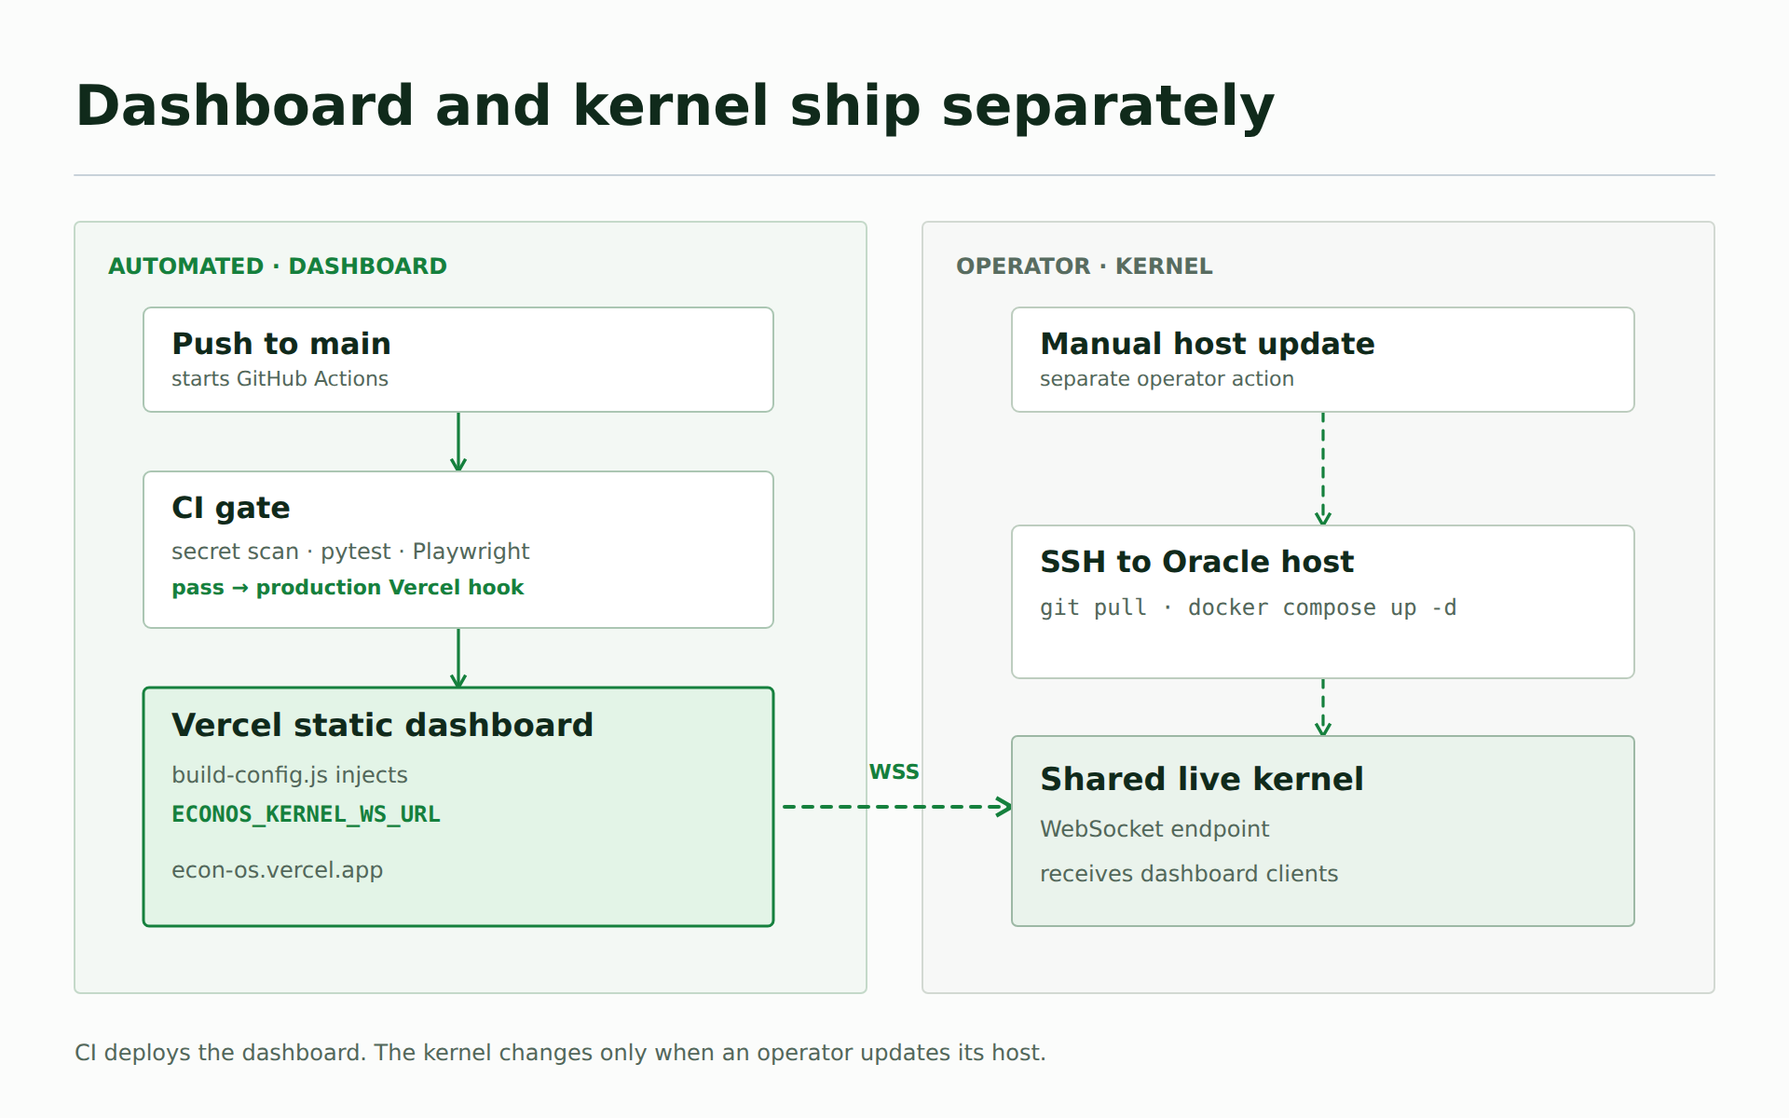
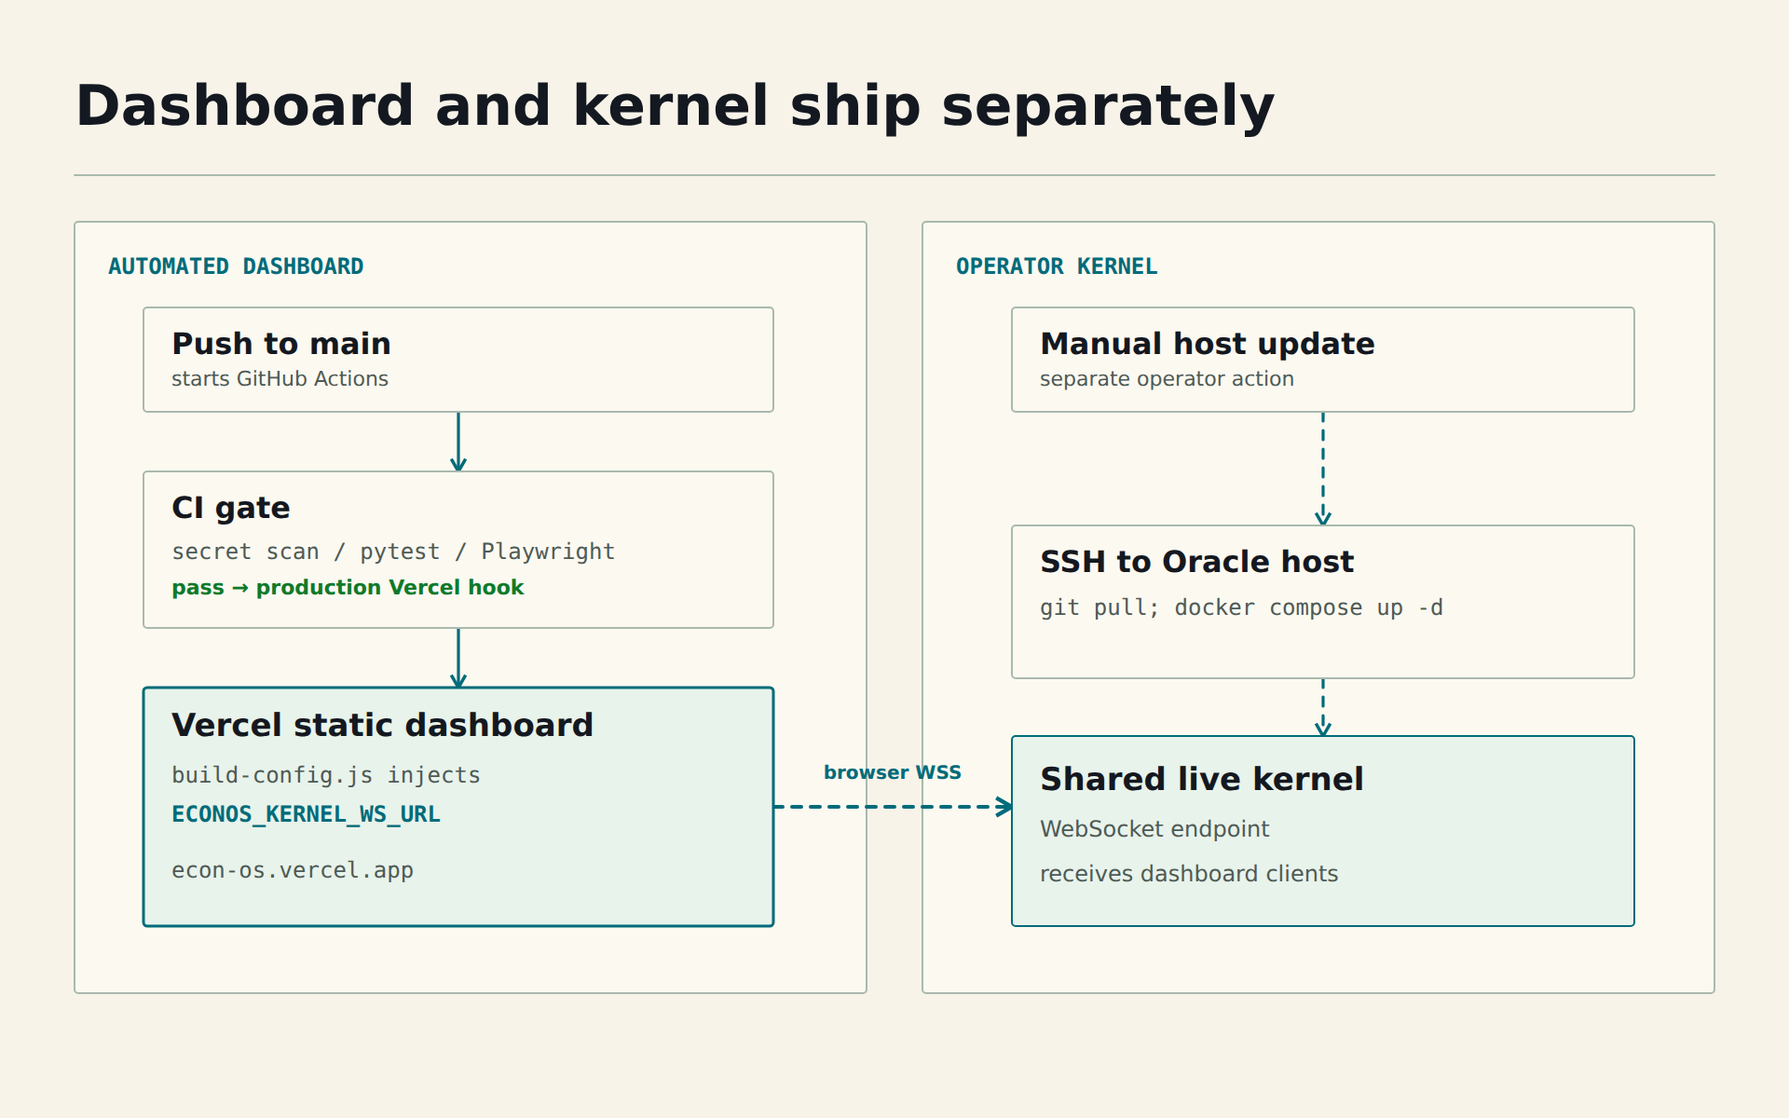
docs(diagrams): add light and dark figures

diff --git a/assets/diagrams/delivery-flow.html b/assets/diagrams/delivery-flow.html
@@ -1,9 +1,9 @@
 <!doctype html>
 <html lang="en"><head><meta charset="utf-8"><meta name="viewport" content="width=device-width, initial-scale=1"><title>Dashboard and kernel ship separately</title>
-<style>html,body{margin:0;background:#fbfcfb}body{font-family:Inter,ui-sans-serif,system-ui,-apple-system,BlinkMacSystemFont,"Segoe UI",sans-serif}.figure-scroll{max-width:960px;margin:auto;overflow-x:auto}svg{display:block;width:100%;min-width:960px}@media print{.figure-scroll{overflow-x:visible}svg{min-width:0}}</style></head>
+<style>:root{color-scheme:light;--bg:#f7f3e9;--ink:#141820;--muted:#4e5a55;--panel:#fcf9f1;--panel-alt:#e8f3eb;--line:#a9b9ad;--accent:#006b7a;--success:#0e7a2a;--warning:#b82a20;--mono:"JetBrains Mono", ui-monospace, Menlo, Consolas, monospace;--sans:Inter, system-ui, -apple-system, BlinkMacSystemFont, "Segoe UI", sans-serif}@media (prefers-color-scheme:dark){:root{color-scheme:dark;--bg:#0a0b0e;--ink:#f7faf8;--muted:#b1bdb8;--panel:#171b20;--panel-alt:#10282b;--line:#4c6162;--accent:#00f5ff;--success:#00ff41;--warning:#ff4136;}}html,body{margin:0;background:var(--bg)}body{font-family:var(--sans)}.figure-scroll{max-width:960px;margin:auto;overflow-x:auto}svg{display:block;width:100%;min-width:960px}@media print{.figure-scroll{overflow-x:visible}svg{min-width:0}}</style></head>
 <body><div class="figure-scroll"><svg xmlns="http://www.w3.org/2000/svg" viewBox="0 0 960 600" role="img" aria-labelledby="figure-title figure-desc">
 <title id="figure-title">Dashboard and kernel ship separately</title><desc id="figure-desc">GitHub Actions gates the Vercel dashboard deployment after a main push. An operator separately updates the live kernel over SSH with git pull and docker compose. The deployed dashboard connects to the kernel over WebSocket.</desc>
-<defs><marker id="arrow" viewBox="0 0 10 10" refX="8" refY="5" markerWidth="6" markerHeight="6" orient="auto"><path d="M1 1 L8 5 L1 9" fill="none" stroke="#15803d" stroke-width="1.8"/></marker></defs>
-<rect width="960" height="600" fill="#fbfcfb"/>
-<text x="40" y="67" font-size="30" fill="#102a1b" font-weight="700">Dashboard and kernel ship separately</text><path d="M40 94 H920" fill="none" stroke="#c8d2d9" stroke-width="1" stroke-linejoin="round" stroke-linecap="round"/><rect x="40" y="119" width="425" height="414" rx="3" fill="#f3f8f4" stroke="#c4d9c9" stroke-width="1"/><text x="58" y="147" font-size="12" fill="#15803d" font-weight="700">AUTOMATED · DASHBOARD</text><rect x="495" y="119" width="425" height="414" rx="3" fill="#f7f8f7" stroke="#d2d9d2" stroke-width="1"/><text x="513" y="147" font-size="12" fill="#586c60" font-weight="700">OPERATOR · KERNEL</text><path d="M246 221 V253" fill="none" stroke="#15803d" stroke-width="1.6" stroke-linejoin="round" stroke-linecap="round" marker-end="url(#arrow)"/><path d="M246 337 V369" fill="none" stroke="#15803d" stroke-width="1.6" stroke-linejoin="round" stroke-linecap="round" marker-end="url(#arrow)"/><path d="M710 221 V282" fill="none" stroke="#15803d" stroke-width="1.6" stroke-linejoin="round" stroke-linecap="round" stroke-dasharray="5 5" marker-end="url(#arrow)"/><path d="M710 364 V395" fill="none" stroke="#15803d" stroke-width="1.6" stroke-linejoin="round" stroke-linecap="round" stroke-dasharray="5 5" marker-end="url(#arrow)"/><path d="M421 433 H543" fill="none" stroke="#15803d" stroke-width="2" stroke-linejoin="round" stroke-linecap="round" stroke-dasharray="5 5" marker-end="url(#arrow)"/><text x="480" y="418" font-size="11" fill="#15803d" font-weight="700" text-anchor="middle">WSS</text><rect x="77" y="165" width="338" height="56" rx="4" fill="#fff" stroke="#abc6b3" stroke-width="1"/><text x="92" y="190" font-size="16" fill="#102a1b" font-weight="700">Push to main</text><text x="92" y="207" font-size="11" fill="#52675a" font-weight="400">starts GitHub Actions</text><rect x="77" y="253" width="338" height="84" rx="4" fill="#fff" stroke="#abc6b3" stroke-width="1"/><text x="92" y="278" font-size="16" fill="#102a1b" font-weight="700">CI gate</text><text x="92" y="300" font-size="12" fill="#52675a" font-weight="400">secret scan · pytest · Playwright</text><text x="92" y="319" font-size="11" fill="#15803d" font-weight="700">pass → production Vercel hook</text><rect x="77" y="369" width="338" height="128" rx="3" fill="#e3f4e7" stroke="#15803d" stroke-width="1.5"/><text x="92" y="395" font-size="17" fill="#102a1b" font-weight="700">Vercel static dashboard</text><text x="92" y="420" font-size="12" fill="#52675a" font-weight="400">build-config.js injects</text><text x="92" y="441" font-size="12" fill="#15803d" font-weight="700" font-family="ui-monospace, SFMono-Regular, Consolas, monospace">ECONOS_KERNEL_WS_URL</text><text x="92" y="471" font-size="12" fill="#52675a" font-weight="400">econ-os.vercel.app</text><rect x="543" y="165" width="334" height="56" rx="4" fill="#fff" stroke="#bdcdbf" stroke-width="1"/><text x="558" y="190" font-size="16" fill="#102a1b" font-weight="700">Manual host update</text><text x="558" y="207" font-size="11" fill="#52675a" font-weight="400">separate operator action</text><rect x="543" y="282" width="334" height="82" rx="4" fill="#fff" stroke="#bdcdbf" stroke-width="1"/><text x="558" y="307" font-size="16" fill="#102a1b" font-weight="700">SSH to Oracle host</text><text x="558" y="330" font-size="12" fill="#52675a" font-weight="400" font-family="ui-monospace, SFMono-Regular, Consolas, monospace">git pull · docker compose up -d</text><rect x="543" y="395" width="334" height="102" rx="3" fill="#eaf3ec" stroke="#9db8a5" stroke-width="1"/><text x="558" y="424" font-size="17" fill="#102a1b" font-weight="700">Shared live kernel</text><text x="558" y="449" font-size="12" fill="#52675a" font-weight="400">WebSocket endpoint</text><text x="558" y="473" font-size="12" fill="#52675a" font-weight="400">receives dashboard clients</text><text x="40" y="569" font-size="12" fill="#52675a" font-weight="400">CI deploys the dashboard. The kernel changes only when an operator updates its host.</text>
+<defs><marker id="arrow" viewBox="0 0 10 10" refX="8" refY="5" markerWidth="6" markerHeight="6" orient="auto"><path d="M1 1 L8 5 L1 9" fill="none" stroke="var(--accent)" stroke-width="1.8"/></marker></defs>
+<rect width="960" height="600" fill="var(--bg)"/>
+<text x="40" y="67" font-size="30" fill="var(--ink)" font-weight="700">Dashboard and kernel ship separately</text><path d="M40 94 H920" fill="none" stroke="var(--line)" stroke-width="1" stroke-linejoin="round" stroke-linecap="round"/><rect x="40" y="119" width="425" height="414" rx="2" fill="var(--panel)" stroke="var(--line)" stroke-width="1"/><text x="58" y="147" font-size="12" fill="var(--accent)" font-weight="700" font-family="var(--mono)">AUTOMATED DASHBOARD</text><rect x="495" y="119" width="425" height="414" rx="2" fill="var(--panel)" stroke="var(--line)" stroke-width="1"/><text x="513" y="147" font-size="12" fill="var(--accent)" font-weight="700" font-family="var(--mono)">OPERATOR KERNEL</text><path d="M246 221 V253" fill="none" stroke="var(--accent)" stroke-width="1.6" stroke-linejoin="round" stroke-linecap="round" marker-end="url(#arrow)"/><path d="M246 337 V369" fill="none" stroke="var(--accent)" stroke-width="1.6" stroke-linejoin="round" stroke-linecap="round" marker-end="url(#arrow)"/><path d="M710 221 V282" fill="none" stroke="var(--accent)" stroke-width="1.6" stroke-linejoin="round" stroke-linecap="round" stroke-dasharray="5 5" marker-end="url(#arrow)"/><path d="M710 364 V395" fill="none" stroke="var(--accent)" stroke-width="1.6" stroke-linejoin="round" stroke-linecap="round" stroke-dasharray="5 5" marker-end="url(#arrow)"/><path d="M415 433 H543" fill="none" stroke="var(--accent)" stroke-width="2" stroke-linejoin="round" stroke-linecap="round" stroke-dasharray="5 5" marker-end="url(#arrow)"/><text x="479" y="418" font-size="10" fill="var(--accent)" font-weight="700" text-anchor="middle">browser WSS</text><rect x="77" y="165" width="338" height="56" rx="2" fill="var(--panel)" stroke="var(--line)" stroke-width="1"/><text x="92" y="190" font-size="16" fill="var(--ink)" font-weight="700">Push to main</text><text x="92" y="207" font-size="11" fill="var(--muted)" font-weight="400">starts GitHub Actions</text><rect x="77" y="253" width="338" height="84" rx="2" fill="var(--panel)" stroke="var(--line)" stroke-width="1"/><text x="92" y="278" font-size="16" fill="var(--ink)" font-weight="700">CI gate</text><text x="92" y="300" font-size="12" fill="var(--muted)" font-weight="400" font-family="var(--mono)">secret scan / pytest / Playwright</text><text x="92" y="319" font-size="11" fill="var(--success)" font-weight="700">pass → production Vercel hook</text><rect x="77" y="369" width="338" height="128" rx="2" fill="var(--panel-alt)" stroke="var(--accent)" stroke-width="1.5"/><text x="92" y="395" font-size="17" fill="var(--ink)" font-weight="700">Vercel static dashboard</text><text x="92" y="420" font-size="12" fill="var(--muted)" font-weight="400" font-family="var(--mono)">build-config.js injects</text><text x="92" y="441" font-size="12" fill="var(--accent)" font-weight="700" font-family="var(--mono)">ECONOS_KERNEL_WS_URL</text><text x="92" y="471" font-size="12" fill="var(--muted)" font-weight="400" font-family="var(--mono)">econ-os.vercel.app</text><rect x="543" y="165" width="334" height="56" rx="2" fill="var(--panel)" stroke="var(--line)" stroke-width="1"/><text x="558" y="190" font-size="16" fill="var(--ink)" font-weight="700">Manual host update</text><text x="558" y="207" font-size="11" fill="var(--muted)" font-weight="400">separate operator action</text><rect x="543" y="282" width="334" height="82" rx="2" fill="var(--panel)" stroke="var(--line)" stroke-width="1"/><text x="558" y="307" font-size="16" fill="var(--ink)" font-weight="700">SSH to Oracle host</text><text x="558" y="330" font-size="12" fill="var(--muted)" font-weight="400" font-family="var(--mono)">git pull; docker compose up -d</text><rect x="543" y="395" width="334" height="102" rx="2" fill="var(--panel-alt)" stroke="var(--accent)" stroke-width="1"/><text x="558" y="424" font-size="17" fill="var(--ink)" font-weight="700">Shared live kernel</text><text x="558" y="449" font-size="12" fill="var(--muted)" font-weight="400">WebSocket endpoint</text><text x="558" y="473" font-size="12" fill="var(--muted)" font-weight="400">receives dashboard clients</text>
 </svg></div></body></html>

diff --git a/assets/diagrams/user-flow.html b/assets/diagrams/user-flow.html
@@ -1,9 +1,9 @@
 <!doctype html>
 <html lang="en"><head><meta charset="utf-8"><meta name="viewport" content="width=device-width, initial-scale=1"><title>One kernel, two roles</title>
-<style>html,body{margin:0;background:#fbfcfb}body{font-family:Inter,ui-sans-serif,system-ui,-apple-system,BlinkMacSystemFont,"Segoe UI",sans-serif}.figure-scroll{max-width:960px;margin:auto;overflow-x:auto}svg{display:block;width:100%;min-width:960px}@media print{.figure-scroll{overflow-x:visible}svg{min-width:0}}</style></head>
+<style>:root{color-scheme:light;--bg:#f7f3e9;--ink:#141820;--muted:#4e5a55;--panel:#fcf9f1;--panel-alt:#e8f3eb;--line:#a9b9ad;--accent:#006b7a;--success:#0e7a2a;--warning:#b82a20;--mono:"JetBrains Mono", ui-monospace, Menlo, Consolas, monospace;--sans:Inter, system-ui, -apple-system, BlinkMacSystemFont, "Segoe UI", sans-serif}@media (prefers-color-scheme:dark){:root{color-scheme:dark;--bg:#0a0b0e;--ink:#f7faf8;--muted:#b1bdb8;--panel:#171b20;--panel-alt:#10282b;--line:#4c6162;--accent:#00f5ff;--success:#00ff41;--warning:#ff4136;}}html,body{margin:0;background:var(--bg)}body{font-family:var(--sans)}.figure-scroll{max-width:960px;margin:auto;overflow-x:auto}svg{display:block;width:100%;min-width:960px}@media print{.figure-scroll{overflow-x:visible}svg{min-width:0}}</style></head>
 <body><div class="figure-scroll"><svg xmlns="http://www.w3.org/2000/svg" viewBox="0 0 960 600" role="img" aria-labelledby="figure-title figure-desc">
 <title id="figure-title">One kernel, two roles</title><desc id="figure-desc">Viewer, admin and shared-kernel swimlanes. Invalid tokens keep users read-only. Valid Fed actions mutate the shared kernel; an ADMIN event reaches every viewer, and the kernel ticks every 500 milliseconds.</desc>
-<defs><marker id="arrow" viewBox="0 0 10 10" refX="8" refY="5" markerWidth="6" markerHeight="6" orient="auto"><path d="M1 1 L8 5 L1 9" fill="none" stroke="#15803d" stroke-width="1.8"/></marker></defs>
-<rect width="960" height="600" fill="#fbfcfb"/>
-<text x="40" y="67" font-size="30" fill="#102a1b" font-weight="700">One kernel, two roles</text><path d="M40 94 H920" fill="none" stroke="#c8d2d9" stroke-width="1" stroke-linejoin="round" stroke-linecap="round"/><rect x="40" y="114" width="880" height="130" rx="2" fill="#f3f7f4" stroke="#cddbd1" stroke-width="1"/><text x="56" y="142" font-size="12" fill="#47715a" font-weight="700">VIEWER</text><rect x="40" y="254" width="880" height="130" rx="2" fill="#f7faf6" stroke="#cddbd1" stroke-width="1"/><text x="56" y="282" font-size="12" fill="#47715a" font-weight="700">ADMIN</text><rect x="40" y="394" width="880" height="130" rx="2" fill="#edf8f0" stroke="#cddbd1" stroke-width="1"/><text x="56" y="422" font-size="12" fill="#47715a" font-weight="700">SHARED KERNEL</text><path d="M250 184 H356" fill="none" stroke="#15803d" stroke-width="1.6" stroke-linejoin="round" stroke-linecap="round" marker-end="url(#arrow)"/><path d="M567 184 H628 V456 H684" fill="none" stroke="#15803d" stroke-width="1.6" stroke-linejoin="round" stroke-linecap="round" marker-end="url(#arrow)"/><path d="M246 324 H355" fill="none" stroke="#15803d" stroke-width="1.6" stroke-linejoin="round" stroke-linecap="round" marker-end="url(#arrow)"/><path d="M560 324 H632 V456 H684" fill="none" stroke="#15803d" stroke-width="1.6" stroke-linejoin="round" stroke-linecap="round" marker-end="url(#arrow)"/><path d="M559 472 H605 V207 H740" fill="none" stroke="#15803d" stroke-width="1.6" stroke-linejoin="round" stroke-linecap="round" marker-end="url(#arrow)"/><rect x="95" y="155" width="155" height="64" rx="4" fill="#fff" stroke="#a8c5b0" stroke-width="1"/><text x="110" y="179" font-size="13" fill="#102a1b" font-weight="700">Open dashboard</text><text x="110" y="200" font-size="11" fill="#53685b" font-weight="400">read-only by default</text><rect x="356" y="155" width="211" height="64" rx="4" fill="#fff" stroke="#a8c5b0" stroke-width="1"/><text x="372" y="179" font-size="15" fill="#102a1b" font-weight="700">Monitor and explore</text><text x="372" y="200" font-size="11" fill="#53685b" font-weight="400">help · inspect · top · gini</text><rect x="740" y="155" width="147" height="64" rx="4" fill="#dff3e5" stroke="#15803d" stroke-width="1"/><text x="753" y="178" font-size="15" fill="#102a1b" font-weight="700">All viewers</text><text x="753" y="199" font-size="11" fill="#53685b" font-weight="400">see ADMIN event</text><rect x="95" y="295" width="151" height="64" rx="4" fill="#fff" stroke="#a8c5b0" stroke-width="1"/><text x="110" y="319" font-size="10" fill="#102a1b" font-weight="700" font-family="ui-monospace, SFMono-Regular, Consolas, monospace">sudo &lt;ADMIN_TOKEN&gt;</text><text x="110" y="340" font-size="10" fill="#9a4c30" font-weight="400">invalid → read-only</text><rect x="355" y="295" width="205" height="64" rx="4" fill="#fff" stroke="#a8c5b0" stroke-width="1"/><text x="371" y="319" font-size="15" fill="#102a1b" font-weight="700">Valid: Fed mode</text><text x="371" y="340" font-size="11" fill="#53685b" font-weight="400">tax · shock · pause / reset</text><path d="M170 359 V399 H328 V207 H356" fill="none" stroke="#9a4c30" stroke-width="1.4" stroke-linejoin="round" stroke-linecap="round" stroke-dasharray="5 5" marker-end="url(#arrow)"/><rect x="684" y="425" width="203" height="82" rx="3" fill="#dff3e5" stroke="#15803d" stroke-width="1.5"/><text x="701" y="453" font-size="16" fill="#102a1b" font-weight="700">Single live kernel</text><text x="701" y="476" font-size="12" fill="#426853" font-weight="400">500 ms ticks</text><text x="701" y="494" font-size="11" fill="#426853" font-weight="400">action changes shared state</text><text x="40" y="570" font-size="12" fill="#53685b" font-weight="400">Admin actions change the same economy every visitor is watching.</text>
+<defs><marker id="arrow" viewBox="0 0 10 10" refX="8" refY="5" markerWidth="6" markerHeight="6" orient="auto"><path d="M1 1 L8 5 L1 9" fill="none" stroke="var(--accent)" stroke-width="1.8"/></marker></defs>
+<rect width="960" height="600" fill="var(--bg)"/>
+<text x="40" y="67" font-size="30" fill="var(--ink)" font-weight="700">One kernel, two roles</text><path d="M40 94 H920" fill="none" stroke="var(--line)" stroke-width="1" stroke-linejoin="round" stroke-linecap="round"/><rect x="40" y="114" width="880" height="130" rx="2" fill="var(--panel)" stroke="var(--line)" stroke-width="1"/><text x="56" y="142" font-size="12" fill="var(--accent)" font-weight="700" font-family="var(--mono)">VIEWER</text><rect x="40" y="254" width="880" height="130" rx="2" fill="var(--panel)" stroke="var(--line)" stroke-width="1"/><text x="56" y="282" font-size="12" fill="var(--accent)" font-weight="700" font-family="var(--mono)">ADMIN</text><rect x="40" y="394" width="880" height="130" rx="2" fill="var(--panel-alt)" stroke="var(--line)" stroke-width="1"/><text x="56" y="422" font-size="12" fill="var(--accent)" font-weight="700" font-family="var(--mono)">SHARED KERNEL</text><path d="M250 184 H356" fill="none" stroke="var(--accent)" stroke-width="1.6" stroke-linejoin="round" stroke-linecap="round" marker-end="url(#arrow)"/><path d="M684 443 H611 V207 H567" fill="none" stroke="var(--accent)" stroke-width="1.6" stroke-linejoin="round" stroke-linecap="round" marker-end="url(#arrow)"/><path d="M246 324 H355" fill="none" stroke="var(--accent)" stroke-width="1.6" stroke-linejoin="round" stroke-linecap="round" marker-end="url(#arrow)"/><path d="M560 324 H632 V456 H684" fill="none" stroke="var(--accent)" stroke-width="1.6" stroke-linejoin="round" stroke-linecap="round" marker-end="url(#arrow)"/><path d="M887 455 H903 V185 H887" fill="none" stroke="var(--accent)" stroke-width="1.6" stroke-linejoin="round" stroke-linecap="round" marker-end="url(#arrow)"/><rect x="95" y="155" width="155" height="64" rx="2" fill="var(--panel)" stroke="var(--line)" stroke-width="1"/><text x="110" y="179" font-size="13" fill="var(--ink)" font-weight="700">Open dashboard</text><text x="110" y="200" font-size="11" fill="var(--muted)" font-weight="400">read-only by default</text><rect x="356" y="155" width="211" height="64" rx="2" fill="var(--panel)" stroke="var(--line)" stroke-width="1"/><text x="372" y="179" font-size="15" fill="var(--ink)" font-weight="700">Monitor and explore</text><text x="372" y="200" font-size="11" fill="var(--muted)" font-weight="400" font-family="var(--mono)">help / inspect / top / gini</text><rect x="740" y="155" width="147" height="64" rx="2" fill="var(--panel-alt)" stroke="var(--accent)" stroke-width="1"/><text x="753" y="178" font-size="15" fill="var(--ink)" font-weight="700">All viewers</text><text x="753" y="199" font-size="11" fill="var(--muted)" font-weight="400">see ADMIN event</text><rect x="95" y="295" width="151" height="64" rx="2" fill="var(--panel)" stroke="var(--line)" stroke-width="1"/><text x="110" y="319" font-size="10" fill="var(--ink)" font-weight="700" font-family="var(--mono)">sudo &lt;ADMIN_TOKEN&gt;</text><text x="110" y="340" font-size="10" fill="var(--warning)" font-weight="400">invalid → read-only</text><rect x="355" y="295" width="205" height="64" rx="2" fill="var(--panel)" stroke="var(--success)" stroke-width="1"/><text x="371" y="319" font-size="15" fill="var(--ink)" font-weight="700">Valid: Fed mode</text><text x="371" y="340" font-size="11" fill="var(--muted)" font-weight="400" font-family="var(--mono)">tax / shock / pause / reset</text><rect x="684" y="425" width="203" height="82" rx="2" fill="var(--panel-alt)" stroke="var(--accent)" stroke-width="1.5"/><text x="701" y="453" font-size="16" fill="var(--ink)" font-weight="700">Single live kernel</text><text x="701" y="476" font-size="12" fill="var(--success)" font-weight="400" font-family="var(--mono)">500 ms ticks</text><text x="701" y="494" font-size="11" fill="var(--muted)" font-weight="400">action changes shared state</text>
 </svg></div></body></html>

diff --git a/README.md b/README.md
@@ -62,7 +62,10 @@ After `sudo <token>` elevates permissions, entering `tax 25` in the shell update
 
 Every visitor lands in the same shared environment: the shared simulation ticks continuously regardless of how many people are watching. Authenticated administrators can adjust market parameters (taxes, price shocks, pauses) that broadcast in real time to every connected user.
 
-![EconOS shared simulation and admin flow](assets/diagrams/user-flow.png)
+<picture>
+  <source media="(prefers-color-scheme: dark)" srcset="assets/diagrams/user-flow-dark.png">
+  <img src="assets/diagrams/user-flow.png" alt="EconOS viewer and admin paths through one shared simulation kernel">
+</picture>
 
 Every viewer sees the same kernel tick every 500 ms. Visitors can watch the monitors, take the tour, or use read-only shell commands. A valid `sudo` token unlocks tax changes, wage or price shocks of ±5% or ±10%, and pause, resume, or reset commands. Their ADMIN events broadcast to every connected viewer. Invalid tokens leave the visitor on the read-only path. [Editable HTML source](assets/diagrams/user-flow.html).
 
@@ -104,7 +107,10 @@ The feedback loop ensures that one user's policy adjustment immediately reflects
 
 ## CI/CD Pipeline
 
-![EconOS checks, dashboard deployment, and manual kernel update](assets/diagrams/delivery-flow.png)
+<picture>
+  <source media="(prefers-color-scheme: dark)" srcset="assets/diagrams/delivery-flow-dark.png">
+  <img src="assets/diagrams/delivery-flow.png" alt="EconOS dashboard CI and deployment alongside the separate kernel update">
+</picture>
 
 A push to `main` starts CI. The secret scan, Python checks, and Playwright job gate the Vercel production hook, which builds the static dashboard with `ECONOS_KERNEL_WS_URL`. The shared kernel is updated separately with `git pull` and `docker compose up -d`; the dashboard connects to its WebSocket endpoint. [Editable HTML source](assets/diagrams/delivery-flow.html).
 
